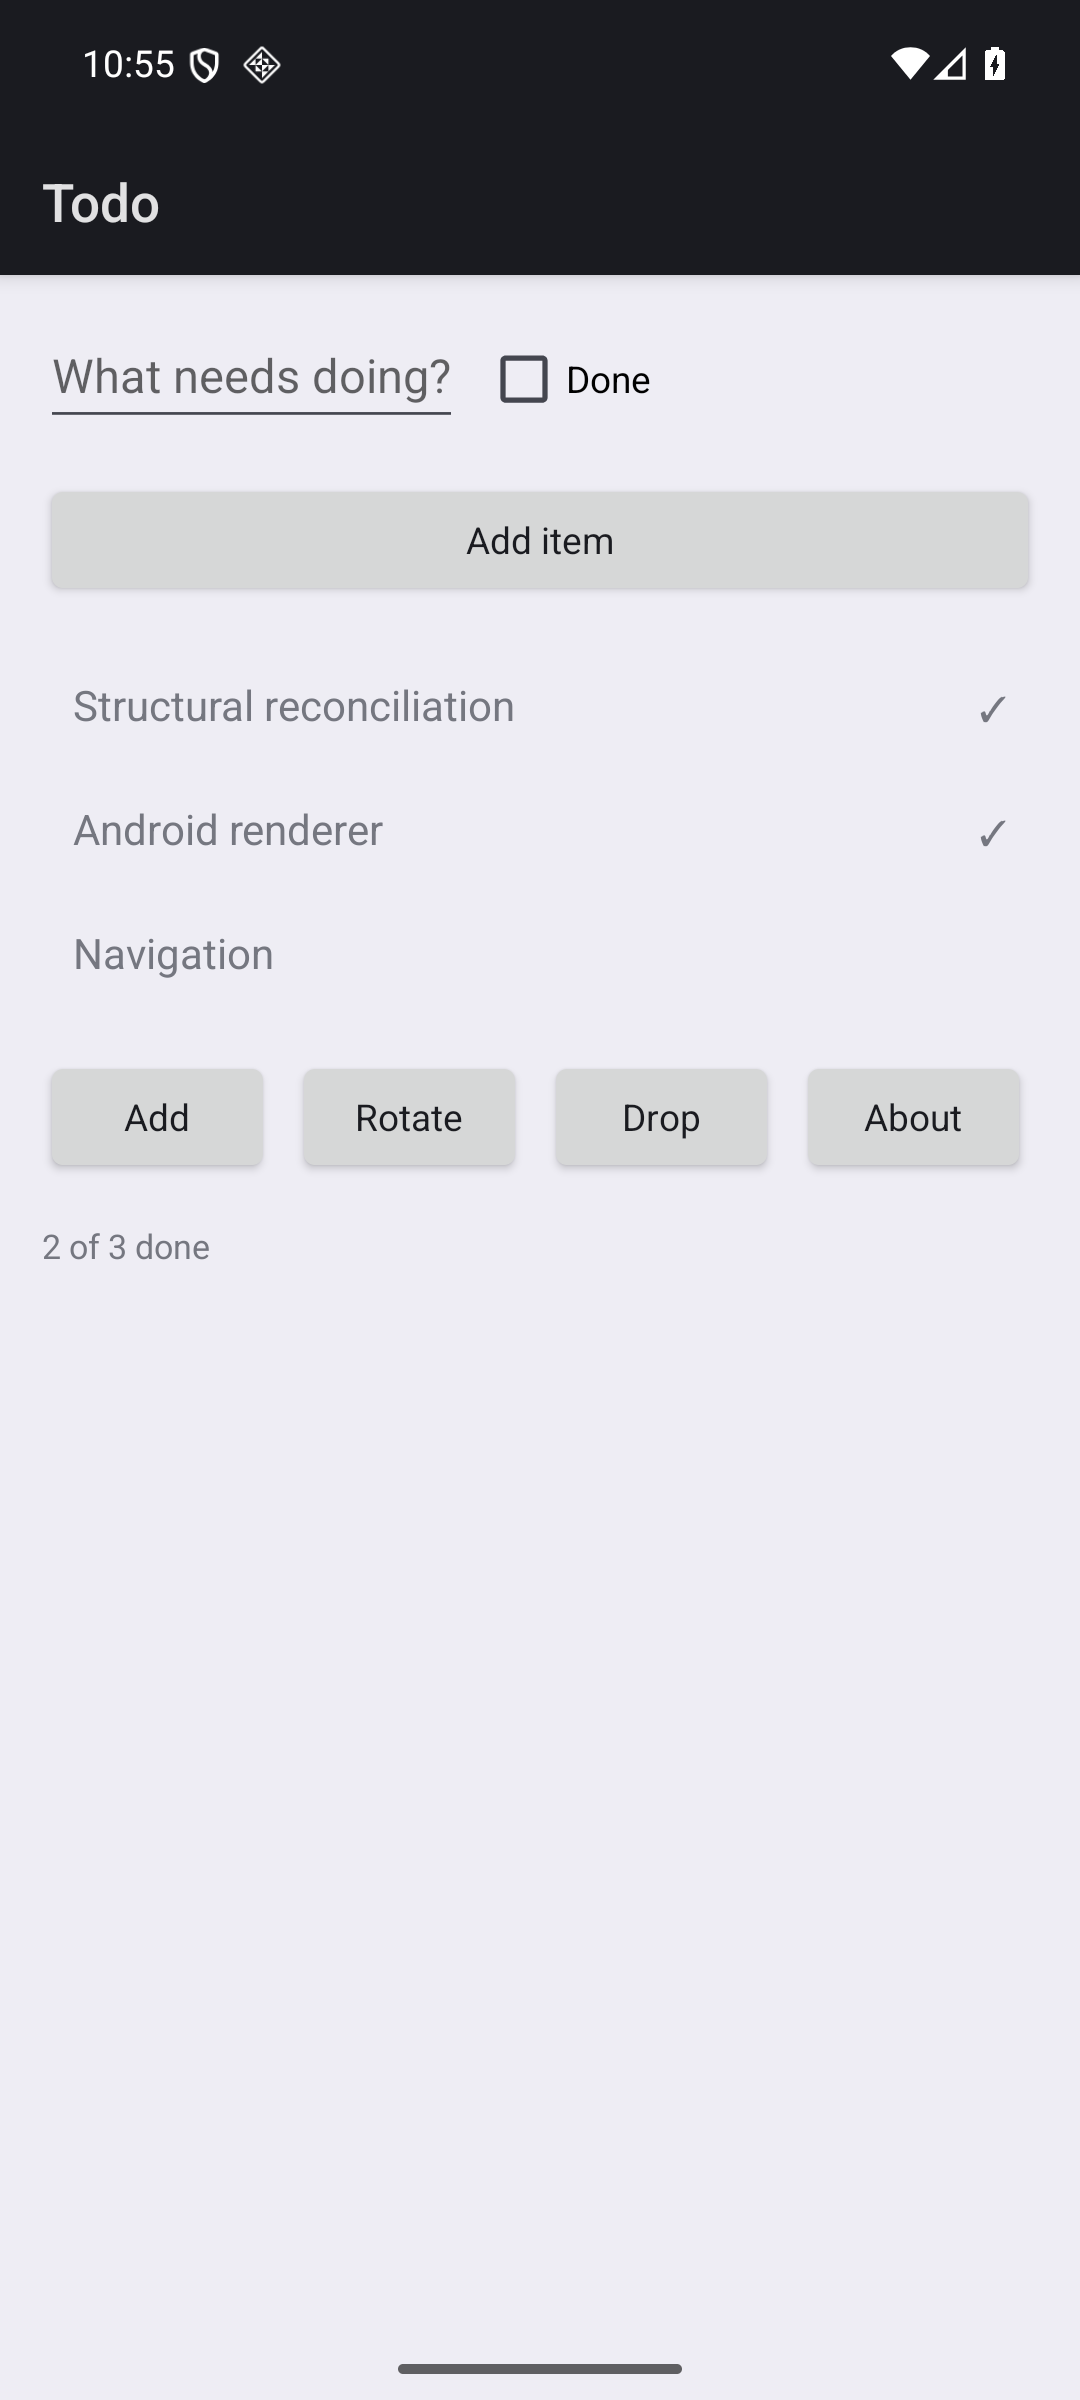
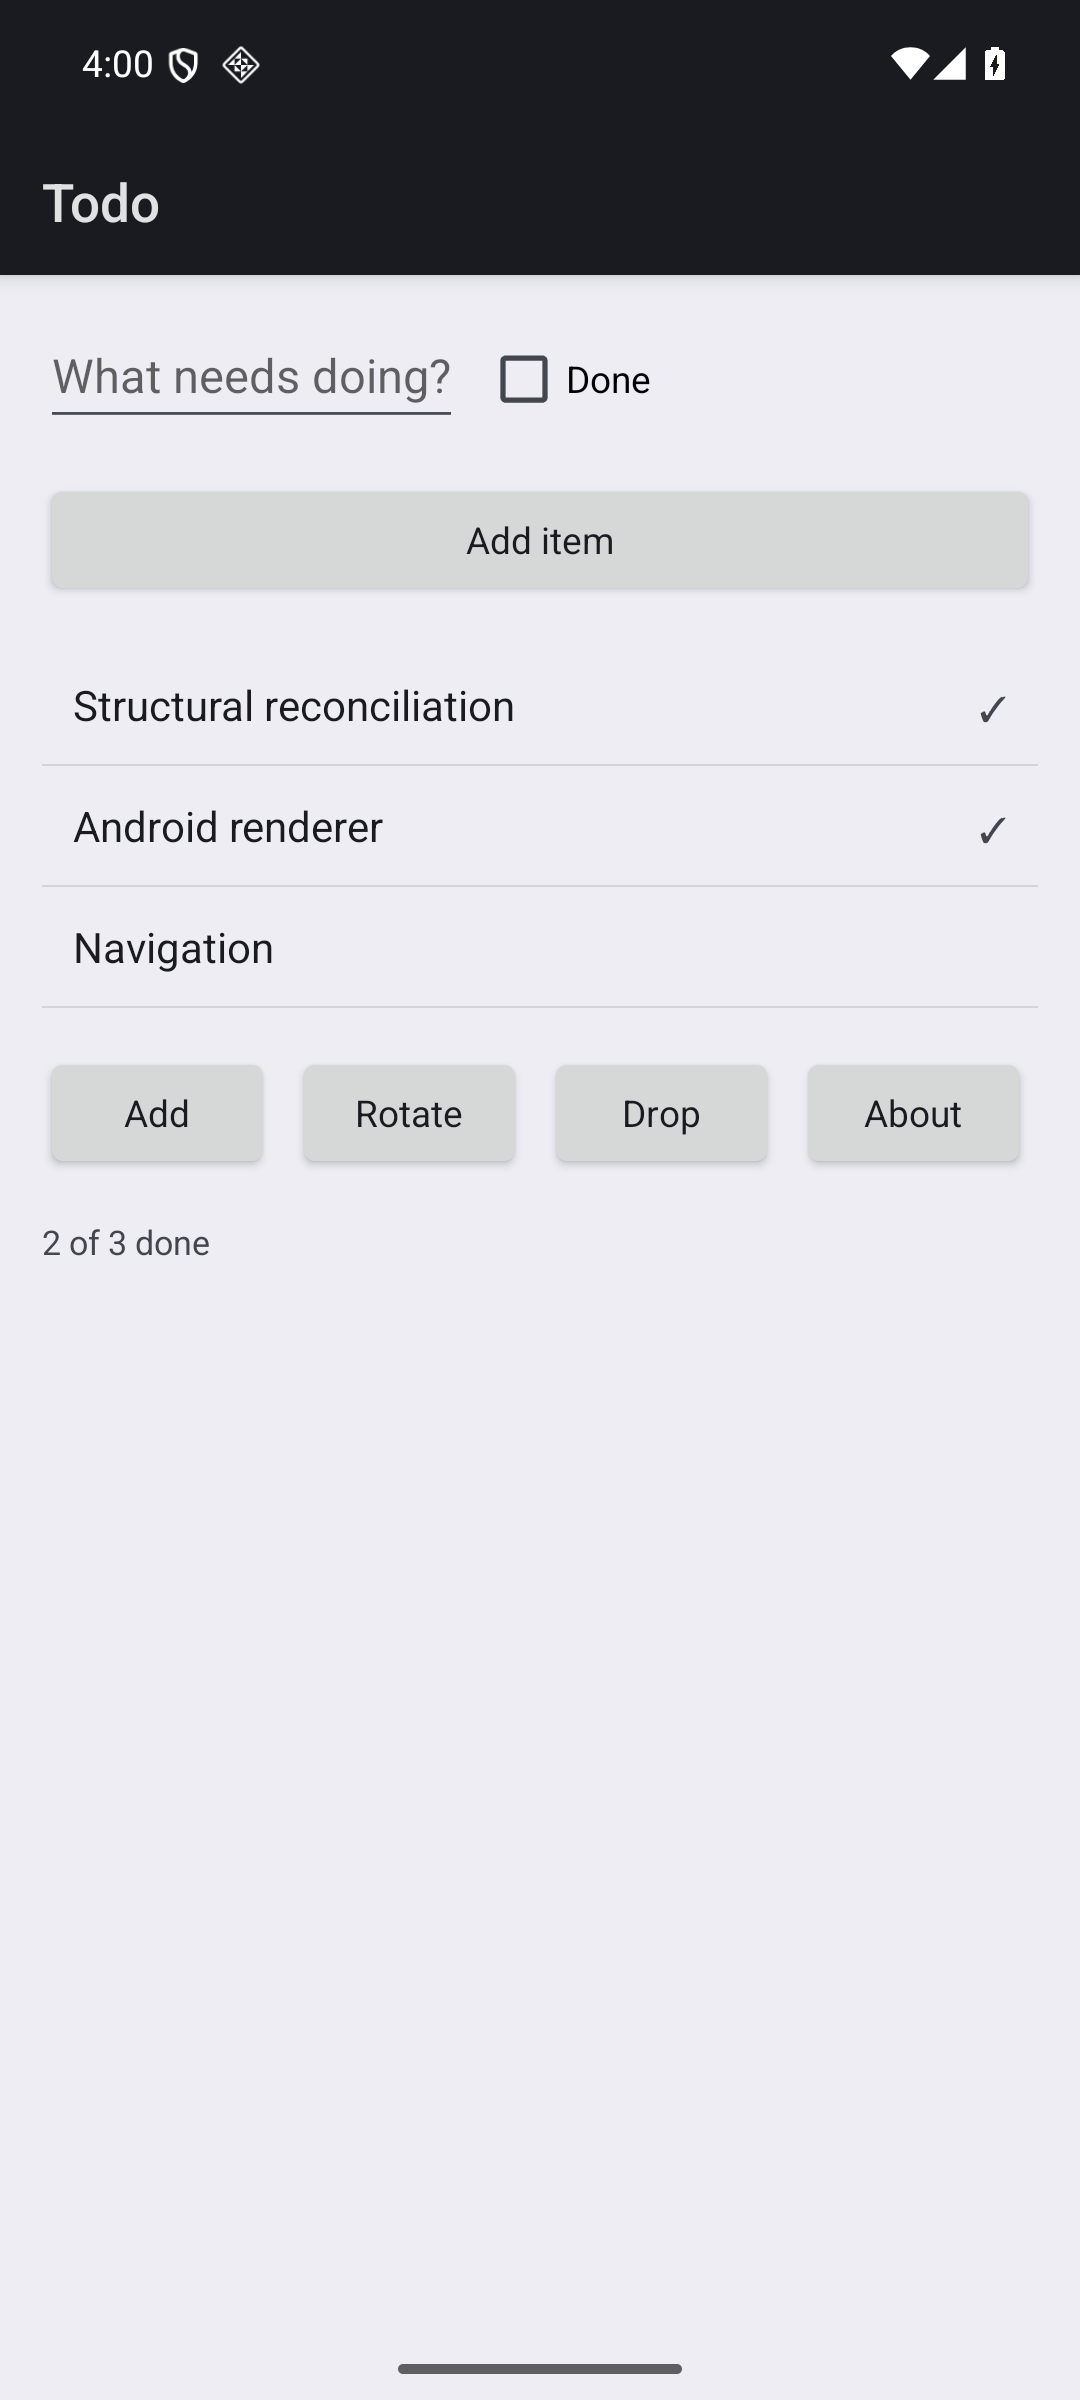
Theming by platform role, not by palette - plus dividers and press feedback
The approach is the opposite of what most cross-platform frameworks do: there is
no palette, no design tokens, no default theme. A widget asks for a role and each
renderer maps it onto the platform's own token:

  TextRole.Caption      -> GTK "caption" class        / Android 13sp
  Emphasis.Secondary    -> GTK "dim-label"            / ?textColorSecondary
  a tappable container  -> GTK "activatable" + cursor / ?selectableItemBackground
  Divider               -> GtkSeparator               / ?listDivider

Nothing is specified in pixels or hex. That buys dark mode, the user's font-size
and contrast settings, and the platform's own press feedback for free - none of
which a framework-owned palette can give, and all of which F-02 requires. The
cost, stated in docs/11: an app cannot brand itself from shared code yet.

Two real bugs found by looking at the result rather than by testing it:

1. A widget attached through a setter must be detached through that setter.
   gtk_scrolled_window_set_child wraps its child in an internal GtkViewport and
   keeps its own pointer to it, so detaching with the generic gtk_widget_unparent
   left that pointer dangling and disposing the scrolled window then unparented
   freed memory. Tracked now and detached through the setter.

   Worth recording how this was found: an instrumented "already destroyed" set
   keyed on pointers reported three double-destroys that were not real - GTK
[…]

diff --git a/docs/11-what-it-looks-like.md b/docs/11-what-it-looks-like.md
@@ -234,11 +234,21 @@ The second thing it showed was that the list rows were `Button`s, because a tapp
 container did not exist. That is now fixed (§11.9), and a real touch on a row navigates,
 with the action bar title following the stack and the Up arrow appearing on its own.
 
-The third thing is still true: **nothing is themed.** Every colour and font is the platform
-default. `Prop.Style` maps a `TextRole` to each platform's own type scale — GTK style classes,
-Android sp sizes — which is the right shape, but there is no `Theme`, no colour roles, no
-dark-mode handling, and no press feedback or separators on rows. That is the gap between
-"the plumbing works" and "this looks like an app", and it is the most visible thing left.
+The third was that nothing was themed. That is now partly addressed — and the approach is
+worth stating, because it is the opposite of what most cross-platform frameworks do.
+
+**There is no palette.** `scala-ui` has no colour constants, no design tokens, no default
+theme. A widget asks for a *role* — `TextRole.Caption`, `Emphasis.Secondary`, "this row is
+tappable" — and each renderer maps it onto the platform's own token: a GTK style class
+(`title-1`, `dim-label`, `activatable`), an Android theme attribute
+(`?textColorSecondary`, `?selectableItemBackground`, `?listDivider`). Nothing is ever
+specified in pixels or hex.
+
+That buys three things for free: dark mode, the user's font-size and contrast settings, and
+the platform's own press feedback — none of which a framework-owned palette can give you,
+and all of which F-02 requires. The cost is that you cannot brand the app from shared code
+yet; a `Theme` for apps that *want* to override roles is still missing, and so is `.platform`
+refinement.
 
 ## 11.9 Input widgets, and the rule they forced
 

diff --git a/docs/screenshots/README.md b/docs/screenshots/README.md
@@ -13,6 +13,6 @@ Regenerate while the demo is running (`examples/todo-android/build.sh`):
 adb exec-out screencap -p > docs/screenshots/android-todo.png
 ```
 
-**Read them critically.** What is still missing is as visible as what works: there is no
-theming (everything is the platform default), no press feedback or separators on rows, and
-no images. Tracked in `docs/11`.
+**Read them critically.** What is still missing is as visible as what works: no images, no
+branding (roles map to platform tokens, but an app cannot override them yet), and the buttons
+are still the platform default rather than anything designed. Tracked in `docs/11`.
